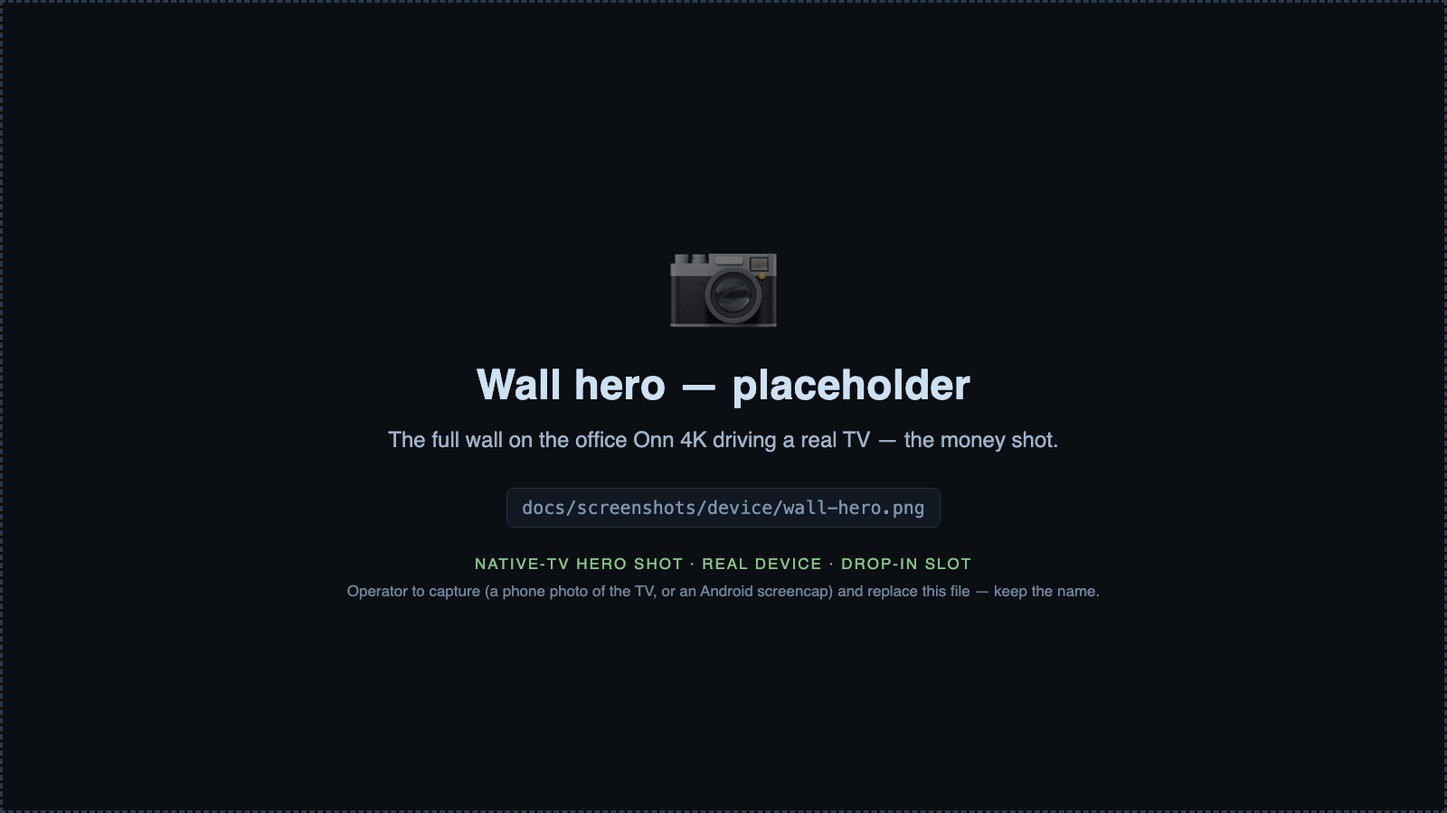
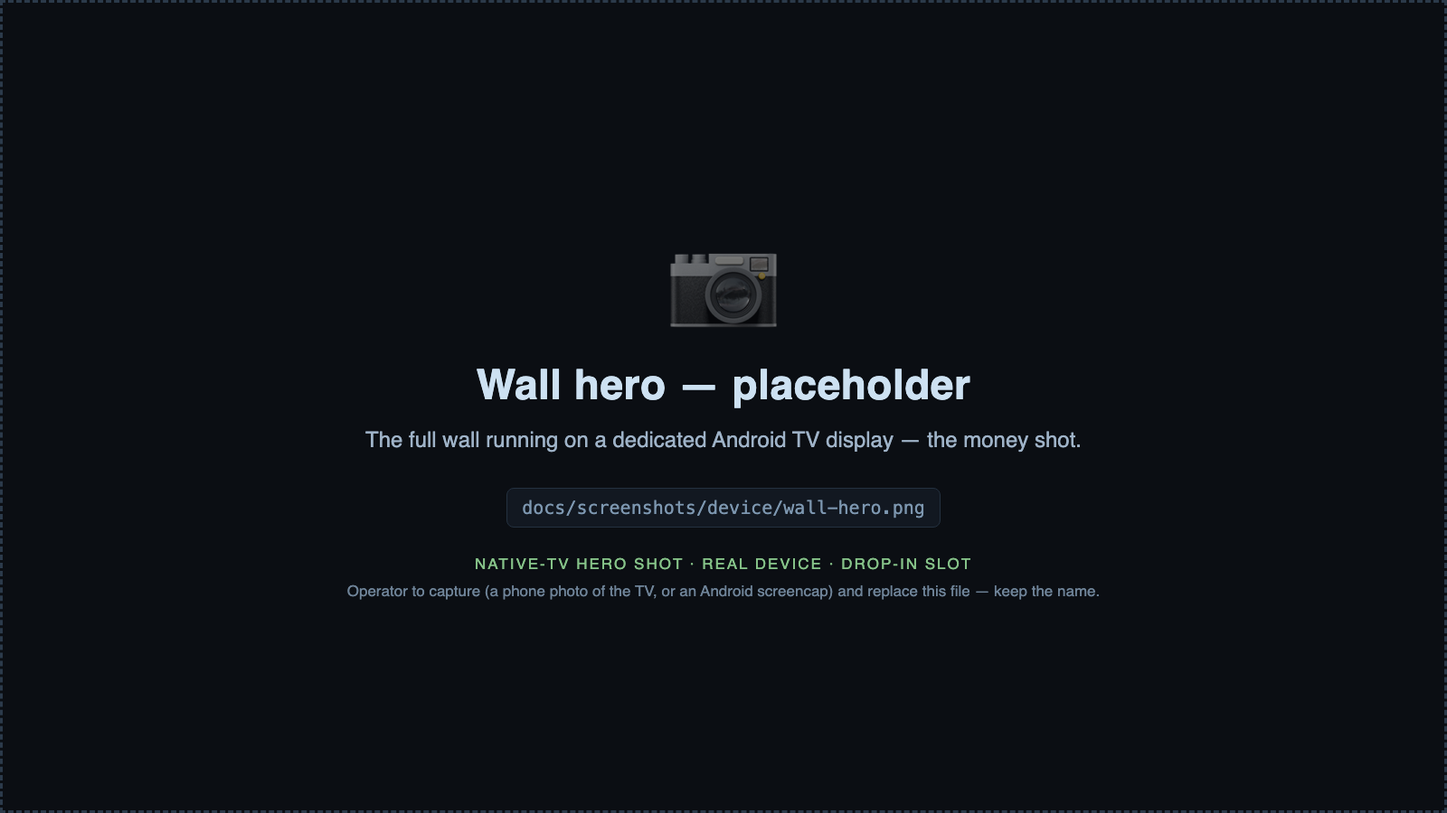
docs: generalize personal-config references in public docs (office Onn / location framing → generic capability descriptions)
Audience-aware-docs pass for the personal-config tier (room/location framing +
the operator's specific box instance) — non-sensitive (no IP/MAC/hostname/secret;
those are already <LAN_IP>/<MAC> placeholders) but not enterprise-grade. Forward-
fix only — NO history rewrite (operator's separate decision). Generalize, not gut:

- gallery/device-shot spec (README, docs/screenshots/**, placeholder images +
  make-placeholders.mjs): "the office Onn" / "office Onn 4K driving a real TV" /
  "running ambient in the room" / "running on my wall" -> "a dedicated Android TV
  display" / "running as an ambient wall display"; renamed office-in-situ.png ->
  in-situ.png (filename encoded a room) + updated all refs + the placeholder.
- historical records: "Office ONN Box - MyMTS" -> "the dedicated MyMTS box";
  "upstairs session" -> "hands-on session" (findings 07-10 + BACKLOG); "the
  WyzeGrid office box" -> "the other (WyzeGrid) box".
- kept (generic/correct): "Onn 4K box" as the hardware platform; "anyone in the
  room" ambient-audience use-case; WyzeGrid coexistence facts; soak run-dir names.

The .182/.158/.92 last-octet box aliases (AGENTS governance + CHANGELOG history)
are flagged as sensitive-adjacent for the operator — left in place (load-bearing
in the governance rules, prior-scrub domain).

Changed region(s): [[0.25, 0.5289, 0.75, 0.56]]

diff --git a/CHANGELOG.md b/CHANGELOG.md
@@ -7,6 +7,15 @@ and this project adheres to [Semantic Versioning](https://semver.org/spec/v2.0.0
 
 ## [Unreleased]
 
+## docs: generalize personal-config references in public docs (2026-06-13)
+
+Audience-aware-docs pass for the **personal-config tier** — environmental/deployment specificity (room/location framing, the operator's specific box instance) that isn't sensitive (no IP/MAC/hostname/secret — those were already scrubbed to `<LAN_IP>`/`<MAC>` placeholders) but doesn't belong in enterprise-grade public docs. **Forward-fix only — NO history rewrite** (the operator rules on that separately, after the audit). Generalized, didn't gut — each reference now describes the project capability, not the operator's instance:
+- **Screenshot gallery / device-shot spec** (README, `docs/screenshots/README.md` + `device/README.md`, the placeholder images + `make-placeholders.mjs`): "the office Onn" / "office Onn 4K driving a real TV" / "running ambient in the room" / "running on my wall" → "a dedicated Android TV display" / "running as an ambient wall display". Renamed `office-in-situ.png` → `in-situ.png` (the filename encoded a room) and updated every reference + the regenerated placeholder caption.
+- **Historical records:** the named box instance "Office ONN Box - MyMTS" → "the dedicated MyMTS box" (CHANGELOG migration entry + BACKLOG decision note); the "upstairs session" feedback labels → "hands-on session" (BACKLOG + findings 07–10); "the WyzeGrid office box" → "the other (WyzeGrid) box" (findings 17).
+- **Kept (generic, correct):** "Onn 4K box" as the hardware *platform* the project targets; "anyone in the room" as the ambient-audience *use-case* (foundation docs); the WyzeGrid coexistence *facts* (operational context, not a location/instance) and soak run-directory artifact names (historical identifiers).
+
+Audit + the git-history footprint + a history-rewrite recommendation were delivered to the operator for a separate decision (the personal-config footprint in history is small and non-sensitive — forward-fix is the recommended sufficient measure). The `.182`/`.158`/`.92` last-octet box aliases (AGENTS.md governance + CHANGELOG history) are flagged as sensitive-adjacent for the operator's awareness — left in place this pass (load-bearing in the governance rules; prior-scrub domain).
+
 ## feat(web): news-story expand + richer screenshot gallery (2026-06-13, Campaign 4.1)
 
 - **News-story expand (new feature).** Selecting a feed headline (click, or Enter/Space on the focused row — keyboard/remote-accessible) now **expands** it into a detail modal showing the item's OWN fields — source, time, title, summary — as **inert plain text** (`textContent`, never `innerHTML`), plus a *Read at source ↗* **link-out**. A1 closed door held: MyMTS shows the feed's own summary and hands off to the browser for the article; it never fetches or renders the article HTML, and the link is gated to `http(s)` only (`safeHttpLink` rejects `javascript:`/`data:` — no href-XSS). Esc / ✕ / scrim close, with focus restored to the originating headline. CSP/same-origin/no-proxy posture unchanged (no new fetch, no CDN). Pure logic (`feedDetailModel`, `safeHttpLink`) is unit-tested (`node --test`, 52 green incl. the link-gating + escaped-field tests).
@@ -46,7 +55,7 @@ Helper-only change. Goes live on the operator's helper redeploy (`docker compose
 The showcase pass — a reproducible screenshot pipeline, a gallery, and a README rewrite:
 - **Automated web-wall capture** (`tools/screenshots/`): a pinned **Playwright** (1.60.0, lockfile committed) script that boots the LAN web wall in **demo/phantom mode** (mock data, no NAS, no secrets — runs anywhere) and captures the feature surface — the wall, the markets/sports/news ticker, the settings modal, the honest channel picker — to `docs/screenshots/web/`. Deterministic framing (fixed viewport, ticker frozen at its left edge, wait-for-render). A second script regenerates the device-shot placeholders.
 - **CI capture job** (`.github/workflows/screenshots.yml`, manual `workflow_dispatch`): boots phantom, captures, and uploads the gallery as a downloadable **artifact** — chosen over auto-committing binaries on every push (the gallery *can* be regenerated reproducibly; a bot doesn't spam commits). Secret-free, same phantom boot as the CI smoke test.
-- **Gallery** (`docs/screenshots/`): the automated `web/` shots (committed, demo data) + a `device/` dir with **labeled placeholders + a filename spec** for the operator's manual native-TV hero shots (the real wall on the office Onn — only the operator can capture those). The README references both, so it's complete-shaped now and gets richer when the hero shots land.
+- **Gallery** (`docs/screenshots/`): the automated `web/` shots (committed, demo data) + a `device/` dir with **labeled placeholders + a filename spec** for the operator's manual native-TV hero shots (the real wall on a dedicated Android TV display — only the operator can capture those). The README references both, so it's complete-shaped now and gets richer when the hero shots land.
 - **Victory-lap README**: the plain technical README rewritten into an honest showcase — hero shot, feature highlights with inline screenshots, a concise three-component architecture (+ mermaid diagram), the engineering story (adversarial review, the green CI gate, the hardware-proven adb invariant, honest-degradation, phantom mode), and the 60-second demo-mode quickstart. Claims kept true-to-shipped; topology-clean (demo/placeholder values only).
 
 Honest demo note: phantom mode serves SAMPLE markets/sports + a fixture feed and does not exercise the four bespoke individual-sport cards (PGA/UFC/Tennis/F1 need live ESPN data) — the web shots show that honestly; the device hero shots are the live-data view. No app/NAS/real-data deploy; capture runs against the secret-free demo helper only.
@@ -293,7 +302,7 @@ Two hands-on issues from running the wall on the new box's 720p panel.
 
 ## MyMTS provisioned onto its permanent box + fresh release key + deploy-script fix (2026-06-07)
 
-- **Migration:** MyMTS now runs on `Office ONN Box - MyMTS` (`<LAN_IP>`, MAC `<MAC>`, 720p panel, no EDID emulator). Aggressive reversible debloat (12 pkgs); MyMTS installed **release-signed + kiosked** (sole kiosk, Model A) reaching LIVE (119 `TILE_READY`, 0 dead); all 4 default tiles LIVE on the box's WiFi path (bloomberg-tv, cbs-sports-hq, bbc-news, cnn); WyzeGrid installed debug-**dormant**. See `docs/OPERATIONS.md §"Office ONN Box - MyMTS provisioning (DONE 2026-06-07)"` + `ONN-BOXES.md`.
+- **Migration:** MyMTS now runs on the **dedicated MyMTS Android TV box** (`<LAN_IP>`, MAC `<MAC>`, 720p panel, no EDID emulator). Aggressive reversible debloat (12 pkgs); MyMTS installed **release-signed + kiosked** (sole kiosk, Model A) reaching LIVE (119 `TILE_READY`, 0 dead); all 4 default tiles LIVE on the box's WiFi path (bloomberg-tv, cbs-sports-hq, bbc-news, cnn); WyzeGrid installed debug-**dormant**. See `docs/OPERATIONS.md` (dedicated-box provisioning) + the operator's local box inventory.
 - **Fresh release key:** generated a new MyMTS release keystore (the prior `.182`-era key abandoned). `.jks` gitignored + backed up to `~/Dropbox/secrets/`; passwords in the operator's password manager. New signing identity going forward (cert SHA-256 `7acc6315…`).
 - **`scripts/deploy-app.sh` fix:** the signing verification parsed apksigner's legacy `Subject:` label; build-tools 33+ prints `Signer #1 certificate DN:`. Now matches both, so a correctly-signed release no longer falsely fails the gate.
 - **Reboot/boot finding (known gap):** on reboot the box auto-restores 720p + the `KioskService` foreground service (network ADB survives reboot), but the **wall activity doesn't auto-foreground over the Google TV launcher** (Android 14 background-activity-launch blocks the boot-time `startActivity`). The HOME-launcher fix was **attempted and reverted** — Google TV's system launchers (`launcherx`, `setupwraith`, `tv.settings`) outrank a third-party HOME app by `android:priority` and win the boot home-race even when MyMTS holds the HOME role; disabling them to force it destabilized the box (recovered + restored to clean known-good). The boot-auto-foreground gap therefore **remains**; the wall works when launched. A code-only **full-screen-intent** from `KioskService` was then attempted (2026-06-07) — it fired correctly (`canUseFullScreenIntent=true`, FSI posted) but **did NOT foreground the wall** on the Google TV form factor (TVs treat FSI as a notification, not an auto-launch); reverted to clean known-good. Remaining options: accept manual-launch after the rare reboot, or a future device-owner/lock-task provisioning project (NOT the launcher-disabling path, which destabilizes this build). See `docs/OPERATIONS.md`.

diff --git a/docs/BACKLOG.md b/docs/BACKLOG.md
@@ -28,7 +28,7 @@ For each entry: **What** (one line), **Why-not-now** (which Vision principle def
 ## ~~Screenshot gallery + victory-lap README (Campaign 4 — the showcase)~~ — DONE (2026-06-13)
 
 **Done.** Automated **Playwright** capture of the demo (phantom-mode) web wall → `docs/screenshots/web/` (the wall, markets/sports/news ticker, settings, channel picker), a manual `workflow_dispatch` CI job that uploads the gallery as an **artifact** (no auto-committed binaries), a `docs/screenshots/device/` dir with **labeled placeholders + a filename spec** for the operator's native-TV hero shots, and the README rewritten into an honest showcase (hero shot, feature highlights w/ inline screenshots, mermaid architecture, the engineering story, the 60-second demo quickstart). Topology-clean, claims true-to-shipped, secret-free (demo helper only). See CHANGELOG (2026-06-13, Campaign 4), `tools/screenshots/`, `docs/screenshots/`.
-**Remaining = operator manual step (not blocking):** capture the **native-TV hero shots** (the real wall on the office Onn — `wall-hero.png` / `cards-closeup.png` / `office-in-situ.png` per `docs/screenshots/device/README.md`) and drop them in to complete the gallery. The live-data wall is also where the bespoke per-sport cards (PGA/UFC/Tennis/F1) show — the demo serves team games + SAMPLE data only.
+**Remaining = operator manual step (not blocking):** capture the **native-TV hero shots** (the real wall on a dedicated Android TV display — `wall-hero.png` / `cards-closeup.png` / `in-situ.png` per `docs/screenshots/device/README.md`) and drop them in to complete the gallery. The live-data wall is also where the bespoke per-sport cards (PGA/UFC/Tennis/F1) show — the demo serves team games + SAMPLE data only.
 
 ## Liven up the ticker league/sport marker (readability-first)
 
@@ -183,7 +183,7 @@ The sports-ticker overhaul shipped the **8 team leagues** (NFL/NCAAF/UFL/NBA/WNB
 
 ## Wall-on-boot (auto-foreground) — ACCEPTED manual-launch (2026-06-07); device-owner is the logged future path
 
-**Decision (2026-06-07): accept manual-launch for now; device-owner/lock-task deferred to a deliberate future project.** Researched + empirical, not a loose end. On `<LAN_IP>` (Office ONN Box - MyMTS), the `KioskService` + `BootReceiver` start the wall's foreground service on boot and hold it once the wall is up — but **getting the wall ACTIVITY to the foreground over the Google TV launcher at boot** is the gap. Two mechanisms were tried on this exact Google TV build and **empirically ruled out** — do **not** retry them:
+**Decision (2026-06-07): accept manual-launch for now; device-owner/lock-task deferred to a deliberate future project.** Researched + empirical, not a loose end. On the dedicated MyMTS box, the `KioskService` + `BootReceiver` start the wall's foreground service on boot and hold it once the wall is up — but **getting the wall ACTIVITY to the foreground over the Google TV launcher at boot** is the gap. Two mechanisms were tried on this exact Google TV build and **empirically ruled out** — do **not** retry them:
 
 - **HOME-launcher — RULED OUT.** Added `CATEGORY_HOME`+`DEFAULT` to `MainActivity` + `cmd package set-home-activity` (MyMTS held `android.app.role.HOME`). But Google TV's system home apps out-prioritise any third-party app at boot — `launcherx` (`android:priority=2`), the setup-wizard `setupwraith.RecoveryActivity` (priority 1), and `tv.settings` — and the boot home-launch follows **priority, not the HOME role**, so the wall lost the race (reboot came up on `launcherx`, 0 tiles). Disabling those system launchers to force a win **destabilised the box** (SystemUI/`system_server` restart, `pm` "Broken pipe", ADB offline → recovered by re-enabling them). That whole class of action (disabling system launchers / launcher surgery) is **off-limits on this build.**
 - **Full-screen-intent — RULED OUT.** `USE_FULL_SCREEN_INTENT` + a HIGH-importance channel + `setFullScreenIntent(...)` posted from the `BootReceiver` path (the Android-sanctioned background→foreground mechanism; touches no launcher). Telemetry confirmed it **fired** (`canUseFullScreenIntent=true`, notification posted) — but on the **TV form factor** the system treats a full-screen-intent as a notification, **not** an auto-launch, so the wall didn't foreground. Reverted clean (code + app-op), redeployed the clean APK.
@@ -209,7 +209,7 @@ The robust "true kiosk home" mechanism: `adb shell dpm set-device-owner <pkg>/<D
 **Considered + deliberately deferred again (2026-06-06 pre-migration hygiene pass):** the entry point's `lifespan="off" if cfg.port else "on"` logic is load-bearing (it's what stops the pollers — now including the new ticker pollers — double-starting across the two listeners). Refactoring it the same day as a migration whose **prerequisite is a clean helper redeploy that must start those pollers** is the wrong risk/reward, and the dual-listener wiring isn't fully exercisable in the unit suite (it's asyncio.gather server wiring). The scaffolding is functionally harmless today (HTTPS serves; the second listener is internal-only since the compose dropped the HTTP port mapping). Tidy it in a calm `__main__.py` session, not under a migration deadline.
 **Reconsider when:** the dual-listener tidy-up is convenient to fold into other `__main__.py` work; no functional driver.
 
-# Usage feedback — 2026-06-04 (upstairs session)
+# Usage feedback — 2026-06-04 (hands-on session)
 
 Batch of feedback the operator surfaced after actually using the wall on `.182`. Logged here so nothing evaporates; **deliberately deferred from the current session** — these are next-roadmap items, not in-flight work. Caveats below preserved verbatim where flagged because they prevent re-litigating settled foundation decisions and set honest expectations on what's feasible vs. paywalled vs. a separate scoped effort.
 

diff --git a/docs/screenshots/device/README.md b/docs/screenshots/device/README.md
@@ -1,9 +1,9 @@
 # Native-TV hero shots — operator drop-in slots
 
-These are the **"this is the real thing running on my wall"** credibility shots — the
-native Android TV app on the office Onn 4K, driving a real TV. An automated tool can
-capture the LAN **web** wall (see [`../web/`](../web/)), but **only the operator can
-capture the native panel** — Claude Code can't see the TV.
+These are the **"this is the real thing running on a wall display"** credibility shots — the
+native Android TV app on a dedicated Android TV device, driving a real display. An automated
+tool can capture the LAN **web** wall (see [`../web/`](../web/)), but **only the operator can
+capture the native panel** — an automated tool can't see the TV.
 
 The files here are **labeled placeholders**. Replace each one with your real capture,
 **keeping the same filename**, and it appears automatically in the top-level
@@ -15,7 +15,7 @@ The files here are **labeled placeholders**. Replace each one with your real cap
 |---|---|
 | `wall-hero.png` | The **full wall** on the TV — feed + video grid + ticker, with live channels playing and the ticker mid-stride. The money shot. |
 | `cards-closeup.png` | A **close-up of the ticker on LIVE data** — real market quotes **and the bespoke per-sport cards (PGA leaderboard / UFC fight / Tennis match / F1 race)**. These are the headline live-data states the automated demo gallery **cannot** show. |
-| `office-in-situ.png` | The TV **on the wall, in the room** — a phone photo showing it running ambient. The "it's actually mounted and on" shot. |
+| `in-situ.png` | The display **mounted and running in place** — a photo showing it as an ambient wall. The "it's actually mounted and on" shot. |
 
 > Optional per-sport breakouts: if you want individual cards, add `ticker-pga-live.png` / `ticker-ufc-live.png` / `ticker-tennis-live.png` / `ticker-f1-live.png` (or a combined `ticker-sports-live.png`) and reference them in the top README. Same live-data, same drop-in rule.
 
@@ -31,7 +31,7 @@ Those are exactly the live-data credibility shots above — yours to capture on 
 
 ## How to capture
 
-- **A phone photo of the TV** — easiest for `wall-hero` and `office-in-situ` (gets the real panel + room).
+- **A phone photo of the display** — easiest for `wall-hero` and `in-situ` (gets the real panel in place).
 - **An on-device screencap** — pixel-perfect for `wall-hero` / `cards-closeup` (no bezel/glare):
   ```bash
   # from a machine paired to the box (the operator's deploy host):
@@ -43,7 +43,7 @@ Those are exactly the live-data credibility shots above — yours to capture on 
 
 - **Keep the filenames** above so the README picks them up (or update the paths in the top README if you prefer different names).
 - **Topology-clean:** the shot must not show any real LAN IP, hostname, or the operator's
-  domain (a wall/room photo is fine; if a settings/diagnostic overlay with an address is on
+  domain (a photo of the display is fine; if a settings/diagnostic overlay with an address is on
   screen, dismiss it first). Same audience-aware-docs rule as the rest of the repo.
 - PNG or JPG both fine — if you save as `.jpg`, just update the extension in the top README's
   image paths (3 lines) to match.

diff --git a/docs/findings/17-panel-fit-and-agnostic-feed.md b/docs/findings/17-panel-fit-and-agnostic-feed.md
@@ -6,7 +6,7 @@
 
 **The box output is correct.** `<LAN_IP>` reports `wm size 1280x720`, `wm density 213` (tvdpi), `dumpsys display → real 1280 x 720` — a clean 720p at a standard TV density. So it is **not** a resolution/density mismatch.
 
-**The clip is physical panel overscan.** The same app fit the WyzeGrid office box's 720p panel but clips on this box's panel → the difference is the panel, not the box. The panel (or its converter) cuts the outer ~edge of the frame; the box outputs a full 1280×720, the panel just doesn't show it all. `wm overscan` (the old software overscan-compensation command) was **removed in modern Android**, so there's no box-side software overscan knob — the robust, panel-agnostic fix is **app-side**.
+**The clip is physical panel overscan.** The same app fit the other (WyzeGrid) box's 720p panel but clips on this box's panel → the difference is the panel, not the box. The panel (or its converter) cuts the outer ~edge of the frame; the box outputs a full 1280×720, the panel just doesn't show it all. `wm overscan` (the old software overscan-compensation command) was **removed in modern Android**, so there's no box-side software overscan knob — the robust, panel-agnostic fix is **app-side**.
 
 ### The fix (app-side, two levers)
 

diff --git a/docs/findings/09-ux-config.md b/docs/findings/09-ux-config.md
@@ -22,7 +22,7 @@
 
 ## Why this chapter happened
 
-**Operator feedback (2026-06-04 upstairs session, BACKLOG item C):** *"Feed width and font should be configurable. Need configuration for side of video grid. Overall size of app needs some configurable resolution or sizing."*
+**Operator feedback (2026-06-04 hands-on session, BACKLOG item C):** *"Feed width and font should be configurable. Need configuration for side of video grid. Overall size of app needs some configurable resolution or sizing."*
 
 The feed restructure (Stage 8) made sources visible and freshness clear. The operator validated the layout and flagged three friction points in the same breath: text on a 55" TV at 10 feet was small for some, the feed's 28% width left room for adjustment, and the grid position wasn't flexible for different room layouts. The chapter prompt (§5) directed the engineer to surface the "overall sizing" ask as a vision question rather than guessing. Result: operator chose to defer global UI density to BACKLOG (revisit once the new box is on a real TV). The three per-piece settings (width, font, side) ship now; each is tuned with legibility and layout confidence in mind.
 

diff --git a/docs/findings/07-navigation-chapter.md b/docs/findings/07-navigation-chapter.md
@@ -20,7 +20,7 @@
 
 ## Why this chapter happened
 
-**Operator feedback (2026-06-04 upstairs session, item A):** *"The wall isn't fully navigable from the couch. I can't D-pad into the feed to focus an article, can't focus a video cell to act on it. The menu feels clunky."*
+**Operator feedback (2026-06-04 hands-on session, item A):** *"The wall isn't fully navigable from the couch. I can't D-pad into the feed to focus an article, can't focus a video cell to act on it. The menu feels clunky."*
 
 The wall at Stage 5 was passable from the couch for channel assignment (MENU + picker was usable), but the inner zones — feed items, grid cells, the ticker — had no navigation at all. The operator had to break the ambient-wall posture to do anything beyond "stare at live tiles." Stage 6 before this point would have added per-zone actions (audio, captions) without any way to *reach* the zones that matter from the couch. Item A flagged this as a load-bearing gap. This chapter lands the entire navigation graph so every zone can be reached and acted on without leaving the remote.
 

diff --git a/docs/findings/08-feed-restructure.md b/docs/findings/08-feed-restructure.md
@@ -21,7 +21,7 @@
 
 ## Why this chapter happened
 
-**Operator feedback (2026-06-04 upstairs session, BACKLOG item B):** *"Feed is still a list, not individual-scroll. Very unintuitive and inefficient. Needs sections."*
+**Operator feedback (2026-06-04 hands-on session, BACKLOG item B):** *"Feed is still a list, not individual-scroll. Very unintuitive and inefficient. Needs sections."*
 
 The navigation chapter (Stage 7) made the feed focusable and expandable from the couch. The operator validated the D-pad navigation with a feel-test and flagged the feed's layout as the gap: the chronological river mixed all sources together ("What is BBC reporting?" required scrolling past NPR, Guardian, and Al Jazeera items). Item B called for sections — grouping items by source so the operator can quickly scan "what is X saying?" without wading through other sources. This chapter lands that layout shift, applying the same "honest staleness" (C3) idea per source instead of once for the whole feed.
 

diff --git a/docs/findings/10-feed-sources.md b/docs/findings/10-feed-sources.md
@@ -20,7 +20,7 @@
 
 ## Why this chapter happened
 
-**Operator feedback (2026-06-04 upstairs session, BACKLOG item F):** add reputable, balanced sources so the feed has more breadth — the sanctioned alternative to the ruled-out Ground News request.
+**Operator feedback (2026-06-04 hands-on session, BACKLOG item F):** add reputable, balanced sources so the feed has more breadth — the sanctioned alternative to the ruled-out Ground News request.
 
 The feed restructure (Stage 7) made sources visible and per-source freshness transparent; the configurable layout (Stage 8) let the operator tune how the feed reads. With the structure in place, the obvious next gap was content breadth: the original 4 sources lean center-left and international. This chapter fills that gap with a deliberately balanced set, each source verified through the helper's own defensive path — no third-party aggregator, no shortcuts.
 

diff --git a/README.md b/README.md
@@ -170,7 +170,7 @@ placeholders until the real captures land; see [`docs/screenshots/device/`](docs
 | | |
 |---|---|
 | ![Wall hero](docs/screenshots/device/wall-hero.png) | ![Ticker cards close-up](docs/screenshots/device/cards-closeup.png) |
-| ![In situ on the wall](docs/screenshots/device/office-in-situ.png) | *The live-data wall on the office Onn — markets ticking, the per-sport cards, real channels playing. Claude Code can't photograph the panel; the operator drops these in.* |
+| ![In situ on a wall display](docs/screenshots/device/in-situ.png) | *The live-data wall running on a dedicated Android TV display — markets ticking, the per-sport cards, real channels playing. An automated tool can't photograph the panel; these are the operator's drop-in shots.* |
 
 ---
 

diff --git a/docs/screenshots/README.md b/docs/screenshots/README.md
@@ -5,8 +5,8 @@ The MyMTS gallery. Two kinds of shot:
 - [`web/`](web/) — **automated** captures of the LAN web wall (`/app/`), rendered headlessly
   against the **demo / phantom helper** (mock data, no NAS, no secrets) so they're
   reproducible and safe to commit. Regenerate them any time (see below).
-- [`device/`](device/) — the operator's **manual** native-TV hero shots (the real wall on the
-  office Onn). Currently labeled placeholders — see [`device/README.md`](device/README.md).
+- [`device/`](device/) — the operator's **manual** native-TV hero shots (the real wall on a
+  dedicated Android TV display). Currently labeled placeholders — see [`device/README.md`](device/README.md).
 
 ## `web/` — what each shot shows (demo mode)
 
